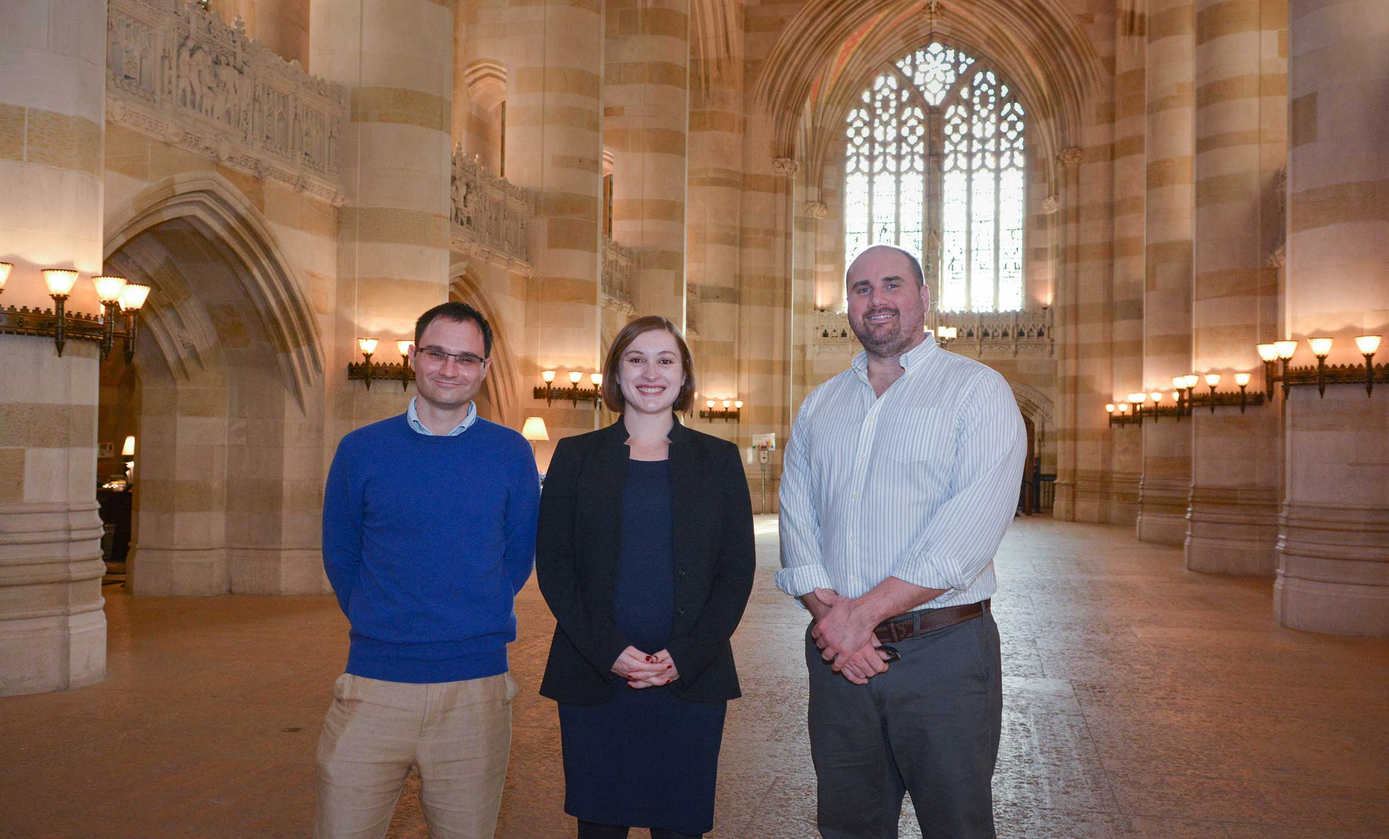
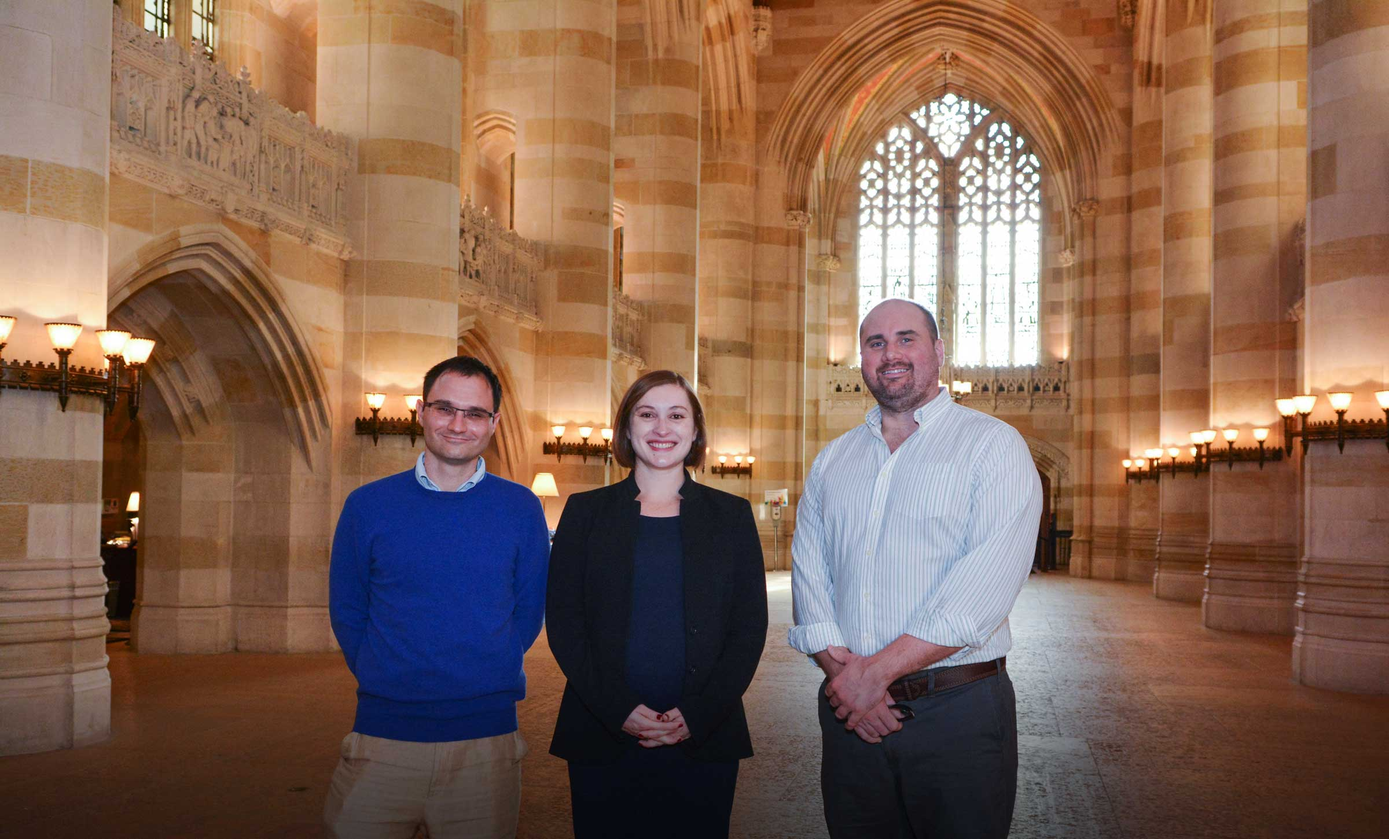
updating postdoc content and images

diff --git a/_about/postdoctoral_associates.html b/_about/postdoctoral_associates.html
@@ -3,9 +3,9 @@ title: Postdoctoral Associates
 layout: about
 class: personnel
 order: 1
-image: /assets/images/banners/sterling-ext.jpg
+image: /assets/images/banners/postdocs-2017.jpg
 caption: >
-  Photo of students sitting in front of Sterling Memorial Library. Photo by Michael Marsland.
+  Photo by Michael Marsland.
 class: about-page
 ---
 

diff --git a/_team/postdoctoral_associate_three.md b/_team/postdoctoral_associate_three.md
@@ -1,7 +1,7 @@
 ---
 name: Gabor Toth
 role: Yale appointment in History <br/>History PhD
-image: /assets/images/about/crockett.jpg
+image: /assets/images/about/toth.jpg
 order: 3
 group: postdoc
 ---
